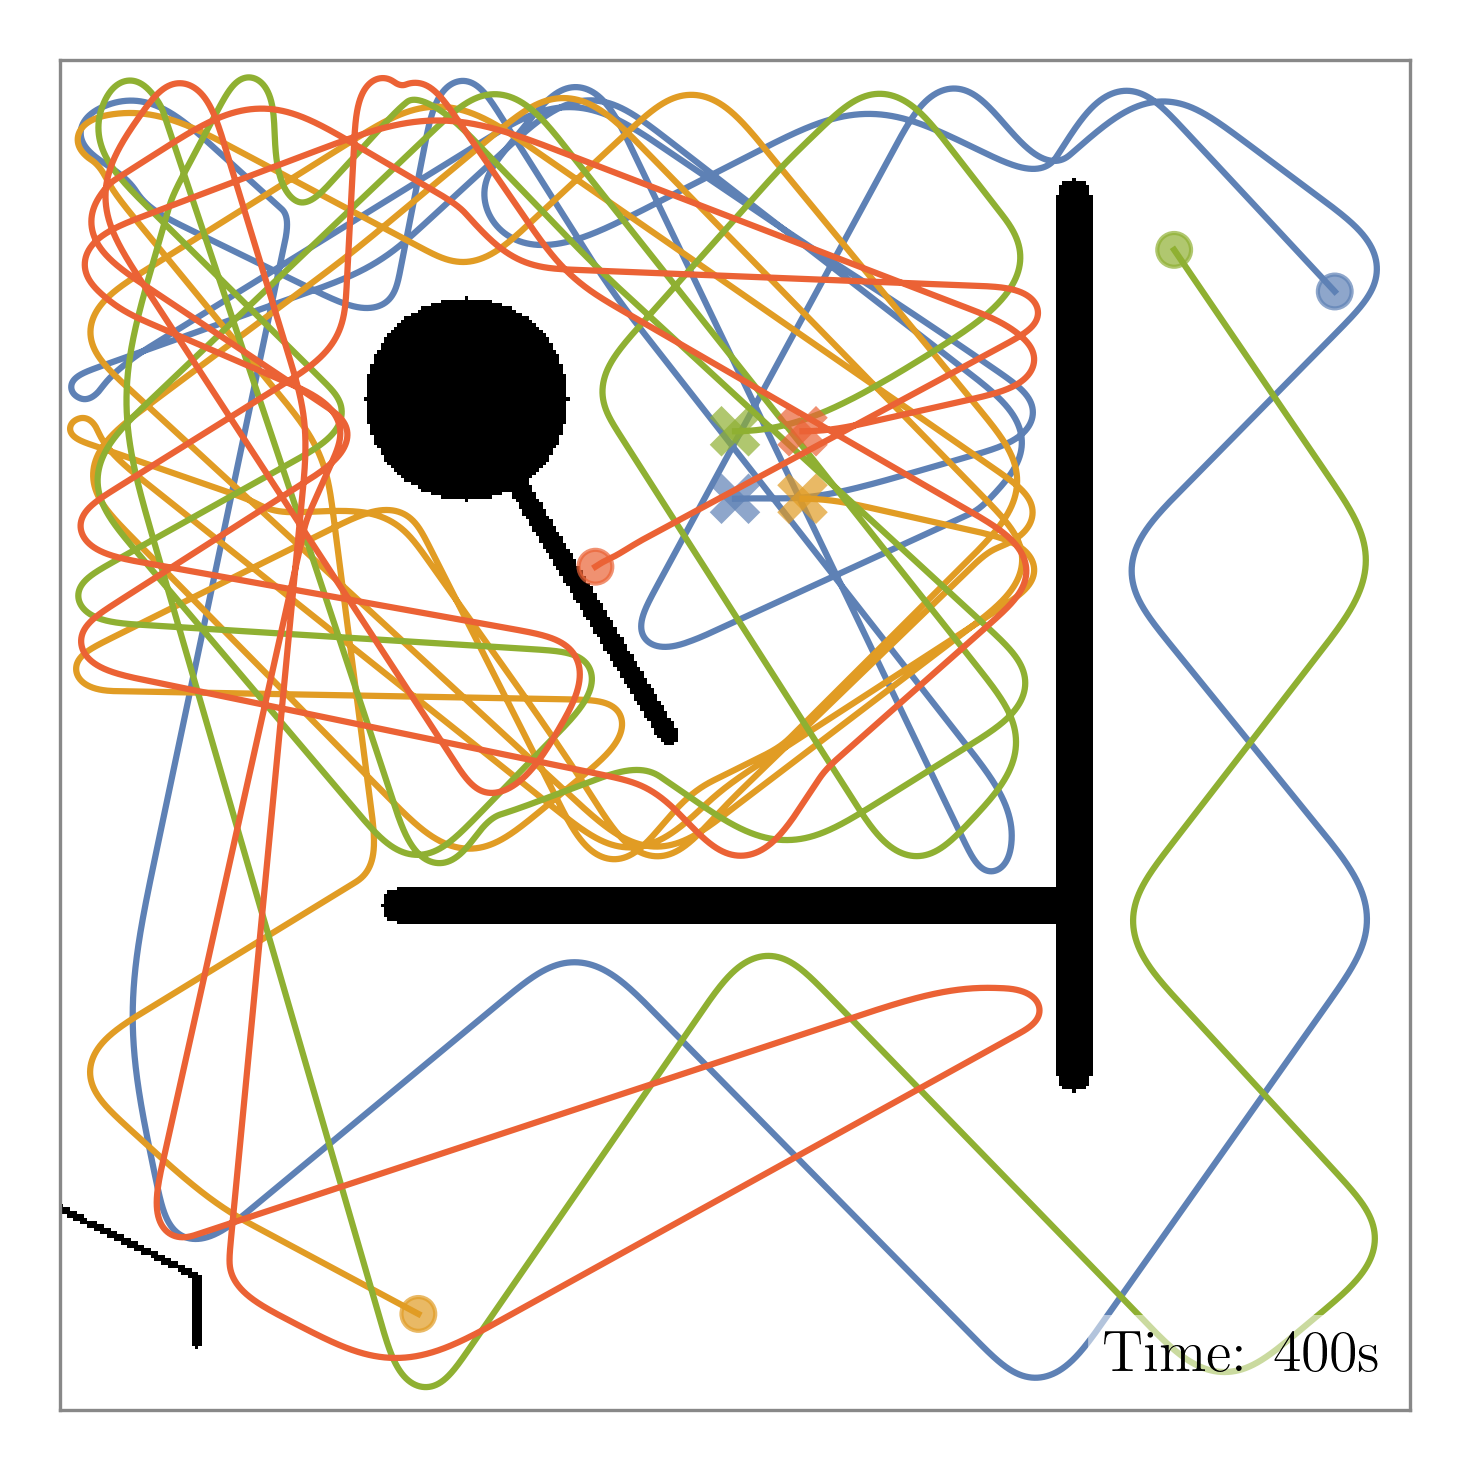
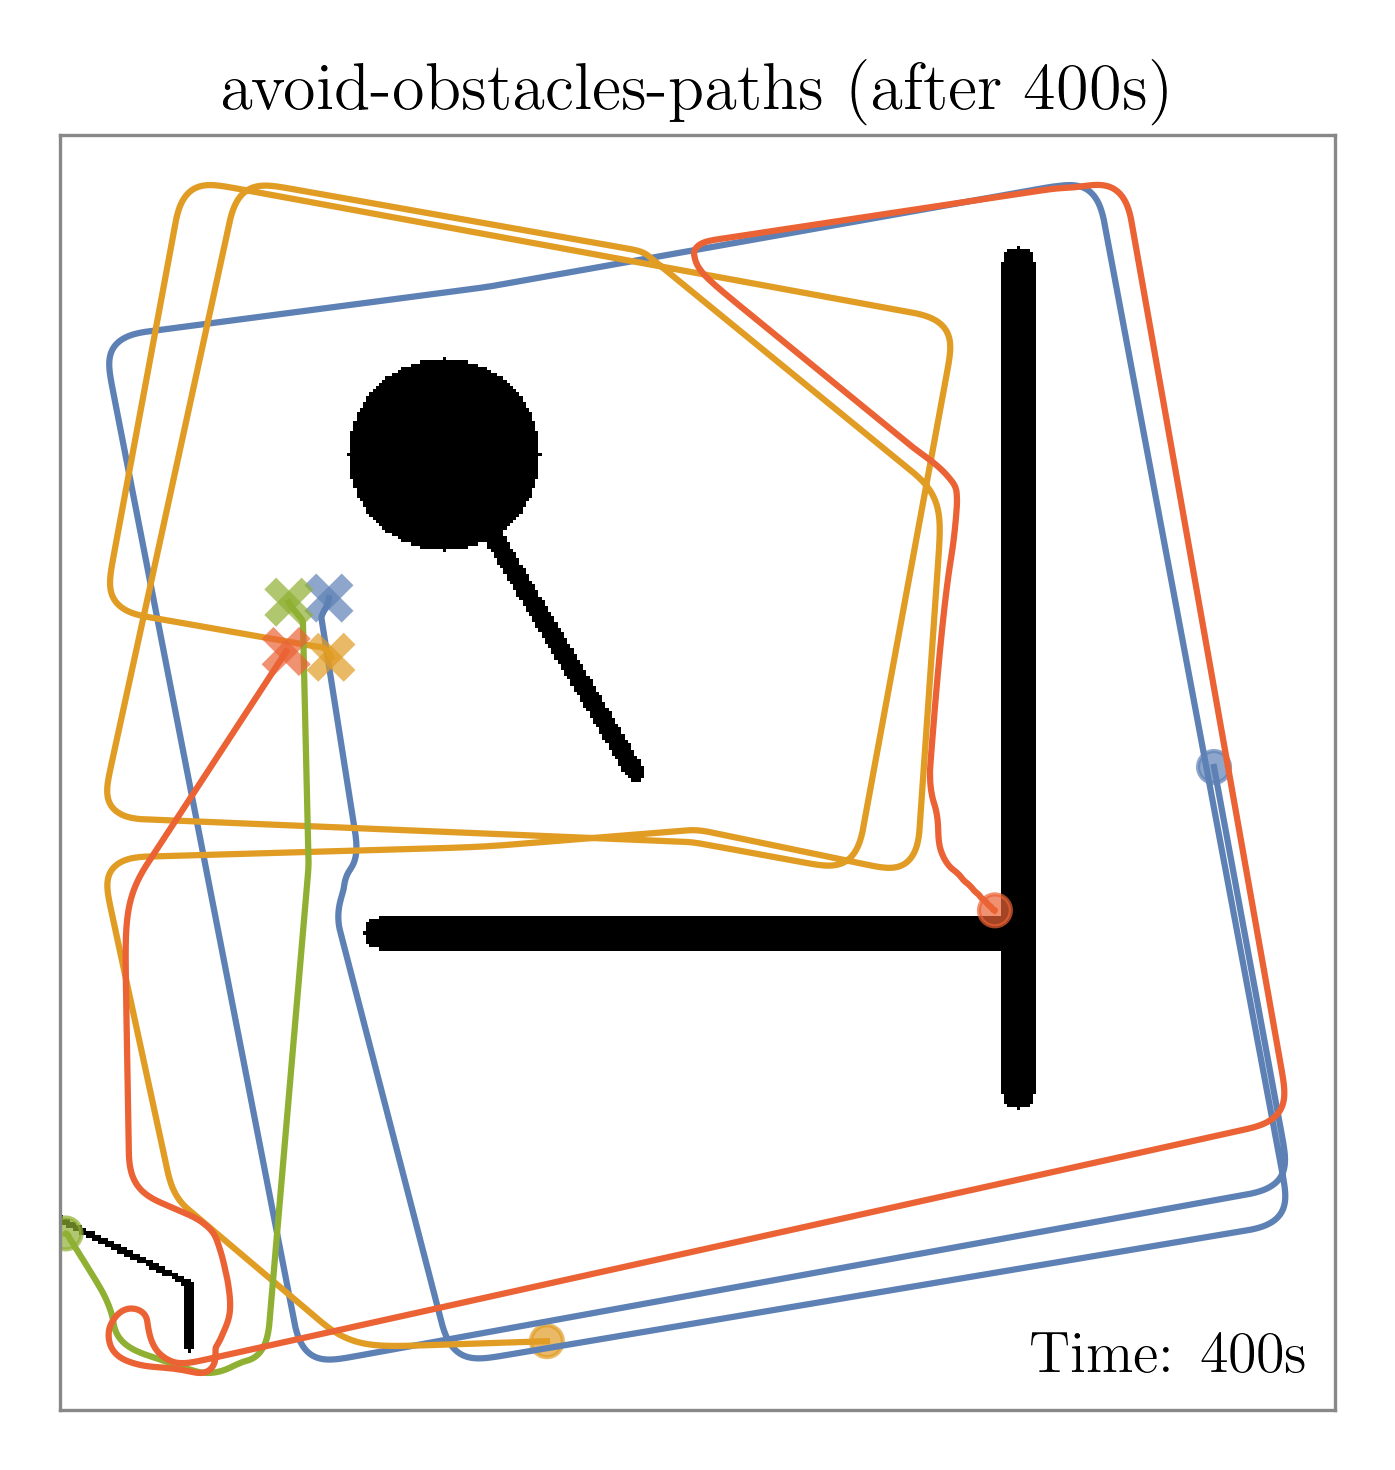
plotting: Fix pathing examples

diff --git a/botplot/src/botplot/__init__.py b/botplot/src/botplot/__init__.py
@@ -1245,6 +1245,8 @@ def plot_paths(
 
     plot_files = []
 
+    ext_ax = ax
+
     for seg in range(segments):
         out_file = os.path.join(
             plot_dir(), f"{title.replace(' ', '-').lower()}-{seg + 1}-of-{segments}.png"
@@ -1255,7 +1257,7 @@ def plot_paths(
             continue
 
         fig = None
-        if not ax:
+        if not ext_ax:
             fig, ax = plt.subplots()
 
         t = df["time"]
@@ -1295,7 +1297,7 @@ def plot_paths(
                                 color=color,
                                 alpha=1.0,
                             )
-                        case 1:
+                        case _:
                             ax.plot(
                                 x_col[start:cursor],
                                 y_col[start:cursor],
@@ -1374,15 +1376,17 @@ def plot_paths(
                 ),
             )
 
+        plot_title = f"{title} (after {end_time:.0f}s)"
+
         plot_world(
             ax,
             result.world(),
-            f"{title} (after {end_time:.0f}s)",
+            plot_title,
             borders=borders,
             plot_title=plot_title,
         )
 
-        out_file = os.path.join(plot_dir(), f"{title.replace(' ', '-').lower()}.png")
+        out_file = os.path.join(plot_dir(), f"{plot_title.replace(' ', '-').lower()}.png")
 
         if fig:
             plot_file = save_figure(fig, out_file)

diff --git a/plotting/report/pathing_examples.py b/plotting/report/pathing_examples.py
@@ -17,17 +17,13 @@ if __name__ == "__main__":
 
     for (behavior, name) in BEHAVIORS:
 
+        bp.seed(2)
         scenario = bp.Scenario(
             title=name,
             world=bp.repo_path("worlds/objectmap/pathing_example.ron"),
             behavior=behavior,
             duration=DURATION,
-            robots=[
-                bp.Robot(x=0, y=-7),
-                bp.Robot(x=2, y=-7),
-                bp.Robot(x=0, y=-9),
-                bp.Robot(x=2, y=-9),
-            ],
+            robots=4,
         )
 
         res = bp.run_sim(scenario)
@@ -36,11 +32,13 @@ if __name__ == "__main__":
 
         bp.plot_velocity(res, f"{behavior}-velocity", f"{behavior} Velocity")
 
+        print(f"Copying plot to report:")
+
         for src in plot_files:
             dst = os.path.join(PLOT_DIR, "paths", os.path.basename(src))
 
             os.makedirs(os.path.dirname(dst), exist_ok=True)
             shutil.copy(src, dst)
 
-            print(f"Plot copied to '{bp.relpath(dst)}'")
+            print(f"    '{bp.relpath(src)}' copied to '{bp.relpath(dst)}'")
 
